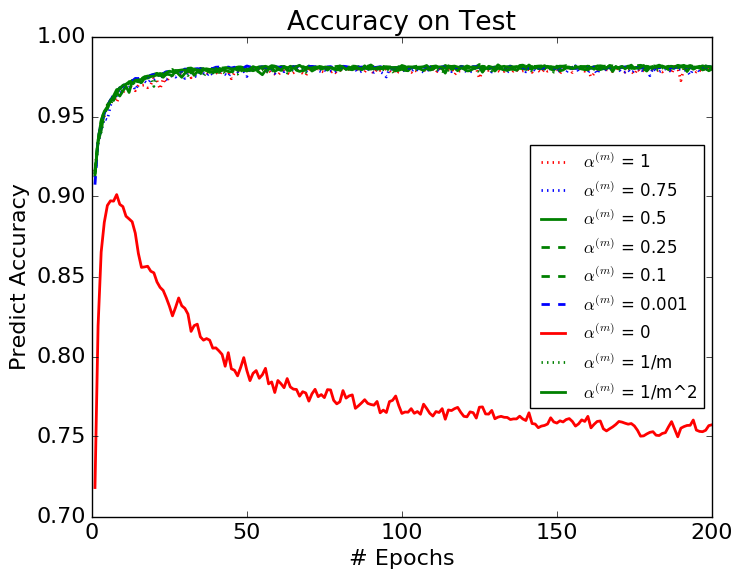
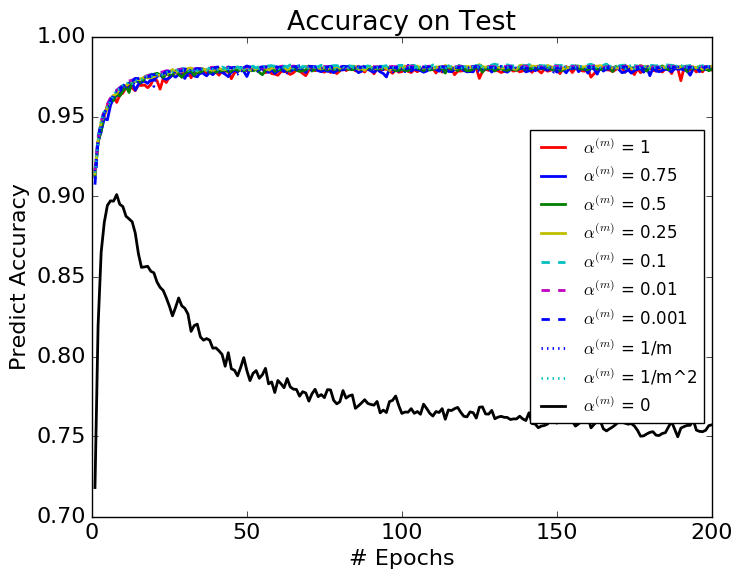
update nips result & fix colors

diff --git a/nips2017/draw_adopt_to_data.py b/nips2017/draw_adopt_to_data.py
@@ -42,11 +42,13 @@ DRAW_Line4 = True
 
 Y_LIM_FINE_TUNING = True
 
+MODE = "all"
+
 PRINT = [
 0, #fill the index 0
 1, #'CM_Validation_Loss'                     1
 0, #'CM_Validation_Set_Accuracy'                     2
-0, #'CM_Training_Set_Loss'                     3
+1, #'CM_Training_Set_Loss'                     3
 0, #'CM_Training_Set_Accuracy'                     4
 1, #'CM_Test_Set_Accuracy'                     5
 0, #'CM_Test_Loss'                     6
@@ -56,6 +58,28 @@ PRINT = [
 0, #'TimeDiff_Training_Set_Accuracy'                     10
 0, #'TimeDiff_Test_Set_Accuracy'                     11
 0, #'TimeDiff_Test_Loss'                     12
+]
+
+
+styles_11_colors = [
+('r', '-'), # 1
+('b', '-'), # 0.75
+('g', '-'), # 0.5
+('y', '-'), # 0.25
+('c', '--'),    # 0.1
+('m', '--'),    # 0.01
+('b', '--'),    # 0.001
+('b', ':'), # 1/m
+('c', ':'), # 1/m^2
+('k', '-')  # 0
+]
+
+styles_5_colors = [
+('r', '-'), # 1
+('g', '-'), # 0.5
+('m', '--'),    # 0.01
+('b', ':'), # 1/m
+('c', ':'), # 1/m^2
 ]
 
 # Number of Moving Average
@@ -68,18 +92,6 @@ PRINT = [
 
 # SPEC = ['b-', 'c:', 'r-.', 'g--', 'kv', 'c-', 'r:', 'g-.', 'k-','r-', 'g:','rv','gv']
 
-colors=('b','g','r','g')
-# colors=('m','c','b','g','r')
-#,'#CE0058' Rubine
-# k black
-# y yellow
-linestyles=('-',':','--')
-# linestyles=('-','--','-.',':')
-styles=[(color,linestyle) for linestyle in linestyles for color in colors]
-
-# print styles
-random.shuffle(styles)
-# print styles
 
 
 def my_min_index(sequence):
@@ -96,12 +108,31 @@ def my_min_index(sequence):
 
 NUM_EPOCHS = 10
 
-def main(num_epochs=NUM_EPOCHS):
+def main(num_epochs=NUM_EPOCHS, mode = MODE):
+
+    if mode == 'all':
+        styles = styles_11_colors
+    if mode == 'select':
+        styles = styles_5_colors
+
 
     tag_first_line=True
     models= []
     models_name= []
-    with open(PATH_DATA+'models.txt') as f:
+
+    if mode == "all":
+        models_file_name = 'models.txt'
+    elif mode == "select":
+        models_file_name = "select_models.txt"
+    else:
+        colors=('m','c','b','g','r')
+        linestyles=('-','--','-.',':')
+        styles=[(color,linestyle) for linestyle in linestyles for color in colors]
+        random.shuffle(styles)
+        # print styles
+
+    with open(models_file_name) as f:
+
         for line in f:
             if tag_first_line:
                 models_count = int(line)
@@ -175,7 +206,8 @@ def main(num_epochs=NUM_EPOCHS):
             # plt.legend(bbox_to_anchor=(1,1)) # 5 lines
             plt.legend(loc='best', fontsize = 12)
             axes = plt.gca()
-            # axes.set_ylim([0.05,0.15]) # 5 lines
+            if mode == 'select':
+                axes.set_ylim([0.06,0.12]) # 5 lines
 
             # plt.show()
             pylab.savefig(PATH_FIGURE+'CM_Validation_Loss'+'.png',bbox_inches='tight')
@@ -232,7 +264,8 @@ def main(num_epochs=NUM_EPOCHS):
 
             axes = plt.gca()
             # axes.set_xlim([xmin,xmax])
-            # axes.set_ylim([0.972,0.987]) # 5 line
+            if mode == 'select':
+                axes.set_ylim([0.972,0.987]) # 5 line
             
             for model in models:
                 index = models.index(model)
@@ -383,7 +416,11 @@ if __name__ == '__main__':
     else:
         kwargs = {}
         if len(sys.argv) > 1:
-            kwargs['num_epochs'] = int(sys.argv[1])
+            if sys.argv[1] == "select":
+                kwargs['mode'] = "select"
+            else:
+                kwargs['mode'] = "all"
+                kwargs['num_epochs'] = int(sys.argv[1])
         main(**kwargs)
 
 
